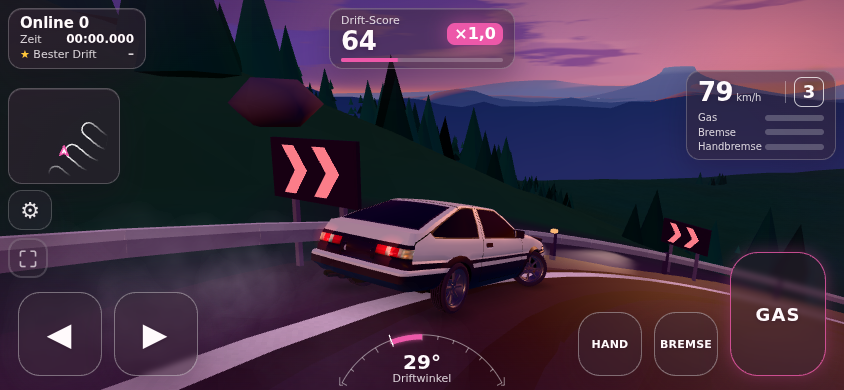
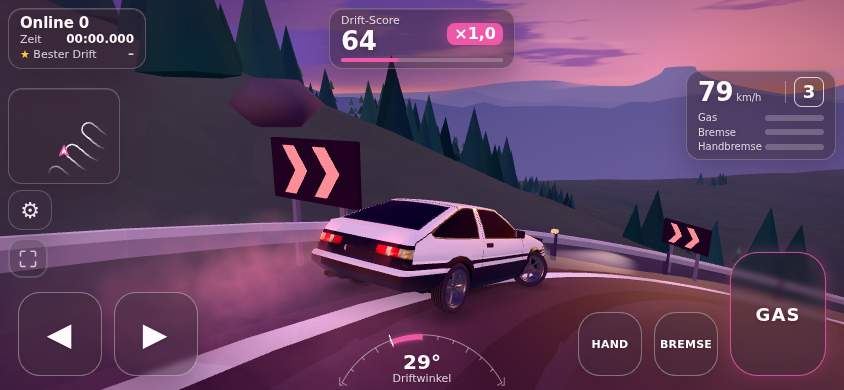
One car (the AE86) for everybody, paint names, 16-driver relay test on the touge, lost respawn test, glTF textures under the app's content policy, back button, pictures, STATE

diff --git a/src/Drift/wwwroot/app.js b/src/Drift/wwwroot/app.js
@@ -53,6 +53,7 @@ async function garagePage(me) {
   const preview = h('p', { class: 'garage-preview' });
   const swatch = (hue) => { const b = h('button', { class: 'swatch', type: 'button', role: 'radio', 'aria-label': t('garage.colourN', { n: hue / 15 + 1 }) }); b.style.setProperty('--h', hue); return b; };
 
+  state.car = 1;   // one car for now (docs/FOCUS.md): the AE86; the other four stay valid in the data but are not offered
   const carButtons = CARS.map((c, i) => {
     const bars = STATS.map((s) => h('div', { class: 'stat' }, h('span', { class: 'stat-name', text: t('garage.stat.' + s) }),
       h('span', { class: 'bars', 'aria-hidden': 'true' }, [1, 2, 3, 4, 5].map((n) => h('i', { class: n <= c[s] ? 'on' : '' })))));
@@ -115,7 +116,7 @@ async function garagePage(me) {
     title: t('garage.title'), sub: t('garage.sub'),
     actions: [h('a', { class: 'btn primary', href: '/play/' }, icon('bolt'), t('garage.play'))],
     body: h('div', { class: 'page stack' },
-      h('section', { class: 'card stack' }, h('h2', { class: 'card-title', text: t('garage.car') }), h('div', { class: 'cars', role: 'radiogroup', 'aria-label': t('garage.car') }, carButtons)),
+      h('section', { class: 'card stack' }, h('h2', { class: 'card-title', text: t('garage.car') }), h('div', { class: 'cars', role: 'radiogroup', 'aria-label': t('garage.car') }, carButtons.filter((_, i) => i === 1))),
       h('section', { class: 'card stack' }, h('h2', { class: 'card-title', text: t('garage.colour') }), h('div', { class: 'swatches', role: 'radiogroup', 'aria-label': t('garage.colour') }, swatches)),
       h('section', { class: 'card stack' }, h('h2', { class: 'card-title', text: t('tune.title') }), h('p', { class: 'muted', text: t('tune.intro') }), points, tuneBox, h('div', { class: 'cluster' }, tuneReset)),
       h('section', { class: 'card stack' }, h('h2', { class: 'card-title', text: t('garage.glow') }), h('p', { class: 'muted', text: t('garage.glowHint') }), glowOff, h('div', { class: 'swatches', role: 'radiogroup', 'aria-label': t('garage.glow') }, glowSwatches)),

diff --git a/game/view/carmodel.js b/game/view/carmodel.js
@@ -145,7 +145,9 @@ export async function loadCarModel(name, { tier, materials }) {
   const [{ GLTFLoader }, { loadCarGlb, modelUrls }] = await Promise.all([import('../../vendor/three/addons/loaders/GLTFLoader.js'), import('./carglb.js')]);
   const loader = new GLTFLoader();
   for (const url of modelUrls(new URL('../assets/cars/', import.meta.url), name, tier)) {
-    const car = await loadCarGlb(url, materials, (u) => loader.loadAsync(u));
+    // the app's content policy lets a page fetch only its own address (connect-src 'self'), and the glTF loader's image bitmaps are fetched from blob: addresses: so the loader is told that
+    // image bitmaps do not exist and reads the textures through ordinary images (img-src allows blob:)
+    const car = await loadCarGlb(url, materials, async (u) => { const cib = globalThis.createImageBitmap; globalThis.createImageBitmap = undefined; try { return await loader.loadAsync(u); } finally { globalThis.createImageBitmap = cib; } });
     if (car) return { ...car, url };
   }
   return null;

diff --git a/game/main.js b/game/main.js
@@ -59,7 +59,7 @@ const [cars, mapList] = await Promise.all([
   fetch('data/maps.json').then((r) => r.json()).then((j) => j.maps),
 ]);
 const online = document.documentElement.dataset.mode === 'online';
-const carIndex = params.has('car') ? Math.min(cars.length - 1, +params.get('car') || 0) : online ? Math.floor(Math.random() * cars.length) : 0;
+const carIndex = params.has('car') ? Math.min(cars.length - 1, +params.get('car') || 0) : online ? Math.floor(Math.random() * cars.length) : 1;   // (one car for now, docs/FOCUS.md: the AE86 is car 1; the signed-in page is told 1 by the server)
 // ?tune=steer,balance,power,handbrake (each -3..3, at most 10 points together): the garage's tuning of this car, seen by this page only
 const tuneParts = (params.get('tune') ?? '').split(',').map(Number);
 const tune = Object.fromEntries(TUNE_NAMES.map((k, i) => [k, tuneParts[i] ?? 0]));

diff --git a/game/game.css b/game/game.css
@@ -72,3 +72,4 @@ body.touch #fs { top: 238px; }
 #summary b { font-weight: 700; }
 body.touch #summary { font-size: 13px; min-width: 200px; padding: 8px 16px; top: 40%; }
 body.touch #summary h3 { font-size: 16px; }
+#back { top: 240px !important; bottom: auto !important; width: 40px; height: 40px; font-size: 18px; }

diff --git a/tests/Drift.Tests/GarageTests.cs b/tests/Drift.Tests/GarageTests.cs
@@ -22,7 +22,7 @@ public class GarageTests
     {
         var parts = name.Split(' ');
         Assert.Equal(2, parts.Length);
-        Assert.Equal(Drift.Relay.WorldRelay.Colours[colour / 2 % Drift.Relay.WorldRelay.Colours.Length], parts[0]);
+        Assert.Equal(colour >= 24 ? Drift.Relay.WorldRelay.PaintWords[colour - 24] : Drift.Relay.WorldRelay.Colours[colour / 2 % Drift.Relay.WorldRelay.Colours.Length], parts[0]);
         Assert.Contains(parts[1], Drift.Relay.WorldRelay.Animals);
         Assert.DoesNotContain("jul", name, StringComparison.OrdinalIgnoreCase);
     }
@@ -44,14 +44,14 @@ public class GarageTests
         var c = app.Http();
         var cookie = await app.SignedInAsync(c);
         var first = await TestApp.Json(await c.SendAsync(app.Req(HttpMethod.Get, "/api/garage", cookie)));
-        Assert.Equal(0, first.GetProperty("car").GetInt32());
+        Assert.Equal(GarageStore.OnlyCar, first.GetProperty("car").GetInt32());   // one car for now: the AE86
         AssertNeutral(first.GetProperty("name").GetString()!, first.GetProperty("colour").GetInt32()); // no nickname: a neutral name, never the account name "jul"
         Assert.Equal(5, first.GetProperty("cars").GetArrayLength());
 
         var put = await c.SendAsync(app.Req(HttpMethod.Put, "/api/garage", cookie, new { car = 3, colour = 17, nick = "  Sky Fox " }));
         Assert.Equal(HttpStatusCode.OK, put.StatusCode);
         var again = await TestApp.Json(await c.SendAsync(app.Req(HttpMethod.Get, "/api/garage", cookie)));
-        Assert.Equal(3, again.GetProperty("car").GetInt32());
+        Assert.Equal(GarageStore.OnlyCar, again.GetProperty("car").GetInt32());   // the car 3 is kept but the AE86 is the one in use
         Assert.Equal(17, again.GetProperty("colour").GetInt32());
         Assert.Equal("Sky Fox", again.GetProperty("nick").GetString());
         Assert.Equal("Sky Fox", again.GetProperty("name").GetString());
@@ -91,7 +91,8 @@ public class GarageTests
         await app.SignedInAsync(app.Http()); // runs the migrations
         var store = new GarageStore(db.Data);
         var a = Guid.NewGuid();
-        await using (var cmd = db.Data.CreateCommand("insert into users (id, name, password_hash, totp_secret, roles) values ($1, 'a', 'x', 'x', '{member}'), ($2, 'b', 'x', 'x', '{member}')") ) { cmd.Parameters.AddWithValue(a); var b = Guid.NewGuid(); cmd.Parameters.AddWithValue(b); await cmd.ExecuteNonQueryAsync(); await store.SaveAsync(a, new Profile(4, 5, "Alpha")); Assert.Equal(new Profile(4, 5, "Alpha"), await store.GetAsync(a)); Assert.Null((await store.GetAsync(b)).Nick); Assert.Equal(0, (await store.GetAsync(b)).Car); }
+        await using (var cmd = db.Data.CreateCommand("insert into users (id, name, password_hash, totp_secret, roles) values ($1, 'a', 'x', 'x', '{member}'), ($2, 'b', 'x', 'x', '{member}')") ) { cmd.Parameters.AddWithValue(a); var b = Guid.NewGuid(); cmd.Parameters.AddWithValue(b); await cmd.ExecuteNonQueryAsync(); await store.SaveAsync(a, new Profile(4, 5, "Alpha")); Assert.Equal(new Profile(GarageStore.OnlyCar, 5, "Alpha"), await store.GetAsync(a)); Assert.Null((await store.GetAsync(b)).Nick); Assert.Equal(GarageStore.OnlyCar, (await store.GetAsync(b)).Car);   // (the saved car 4 stays in the table; the one car in use is the AE86)
+            await using var raw = db.Data.CreateCommand("select car_id from drift_profile where user_id = $1"); raw.Parameters.AddWithValue(a); Assert.Equal((short)4, (short)(await raw.ExecuteScalarAsync())!); }
     }
 
     [Fact]

diff --git a/tests/Drift.Tests/RelayTests.cs b/tests/Drift.Tests/RelayTests.cs
@@ -162,6 +162,50 @@ public class RelayTests
     }
 
     [Fact]
+    public void A_lost_respawn_costs_a_pose_and_a_fix_not_the_connection_and_a_later_respawn_works()
+    {
+        var (r, t) = Make(new RelayOptions { HalfX = 400, HalfZ = 400 });
+        r.SetSpawn(0, 0, 60);
+        var (a, pa) = Join(r);
+        r.OnMessage(a, Pose(150, 0));
+        t.Advance(0.1);
+        r.OnMessage(a, Pose(0, 0));                              // the respawn frame never came: this pose is a jump and is refused
+        Assert.Equal(1, pa.Count(Wire.Fix));
+        var fix = pa.Last(Wire.Fix)!;                            // the page takes the fix and goes on from there: accepted, nobody is thrown out
+        t.Advance(0.07);
+        r.OnMessage(a, Pose(150.5, 0));
+        Assert.Equal(1, pa.Count(Wire.Fix)); Assert.Null(pa.Closed);
+        t.Advance(4);
+        r.OnMessage(a, [Wire.Respawn, 3]);
+        r.OnMessage(a, Pose(5, 5));
+        Assert.Equal(1, pa.Count(Wire.Fix)); Assert.Null(pa.Closed);
+        Assert.NotNull(fix);
+    }
+
+    [Fact]
+    public void Sixteen_drivers_on_the_touge_all_pass_the_relays_checks_with_its_walls_and_every_one_is_seen_by_the_near_ones()
+    {
+        var json = File.ReadAllText(Path.Combine(Repo.Root, "game", "data", "maps", "06-touge.json"));
+        var track = Drift.Race.RaceTrack.FromJson(json);
+        var t = new FakeTime();
+        var r = new WorldRelay(t, new RelayOptions { MaxPerAddress = 99, JoinsPerMinutePerAddress = 999, FramesPerSecondPerAddress = 99999, MaxPerWorld = 64, HalfX = track.HalfX, HalfZ = track.HalfZ, InterestRadius = 70, InterestHysteresis = 10, FarEvery = 4 }, new Random(1));
+        r.SetGeometry(track.Segments, track.Obstacles);
+        using var doc = System.Text.Json.JsonDocument.Parse(json);
+        var centre = doc.RootElement.GetProperty("centre").EnumerateArray().Select(p => (X: p[0].GetDouble(), Z: p[1].GetDouble())).ToList();
+        var path = RaceTrackTests.Sample(centre, 20.0 / 15);
+        var bots = Enumerable.Range(0, 16).Select(i => Join(r, "addr" + i)).ToList();
+        for (var step = 0; step < 200; step++)
+        {
+            for (var i = 0; i < bots.Count; i++) { var p = path[(i * 6 + step) % path.Count]; r.OnMessage(bots[i].s, Pose(p.X, p.Z, p.H, 20)); }   // six steps apart: the cars follow each other 8 m apart in a column
+            t.Advance(1.0 / 15); r.Tick();
+        }
+        Assert.Equal(0, r.Stats.Rejected);
+        Assert.All(bots, b => Assert.Null(b.p.Closed));
+        Assert.All(bots, b => Assert.True(b.p.Count(Wire.Snapshot) > 100, "every driver gets snapshots"));
+        Assert.True(r.Stats.NearEntries > 0);
+    }
+
+    [Fact]
     public void Eight_violations_in_ten_seconds_end_the_connection()
     {
         var (r, t) = Make();

diff --git a/src/Drift/Garage/GarageStore.cs b/src/Drift/Garage/GarageStore.cs
@@ -11,11 +11,14 @@ public sealed class GarageStore(NpgsqlDataSource db)
 {
     public static readonly string[] CarNames = ["Dart", "AE86", "Bruno", "Marlin", "Ox"];
 
+    /// <summary>The one car everybody drives for now (docs/FOCUS.md: exactly one car): the AE86. What a person saved earlier stays in the database and stays valid, but is not used.</summary>
+    public const int OnlyCar = 1;
+
     /// <summary>The profile, or the defaults of a person who has never saved one: the first car, a colour that follows the person's id.</summary>
     public async Task<Profile> GetAsync(Guid userId, CancellationToken ct = default) =>
         await db.FirstAsync("select car_id, colour, nick, glow from drift_profile where user_id = $1",
-            r => new Profile(r.GetInt16(0), r.GetInt16(1), r.TextOrNull(2), r.IsDBNull(3) ? null : r.GetInt16(3)), ct, userId)
-        ?? new Profile(0, DefaultColour(userId), null);
+            r => new Profile(OnlyCar, r.GetInt16(1), r.TextOrNull(2), r.IsDBNull(3) ? null : r.GetInt16(3)), ct, userId)
+        ?? new Profile(OnlyCar, DefaultColour(userId), null);
 
     public async Task<Profile> SaveAsync(Guid userId, Profile p, CancellationToken ct = default)
     {
@@ -36,7 +39,7 @@ public sealed class GarageStore(NpgsqlDataSource db)
     public static string NeutralName(Guid userId, int colour)
     {
         var h = userId.ToByteArray().Aggregate(17, (a, b) => unchecked(a * 31 + b));
-        return Drift.Relay.WorldRelay.Colours[colour / 2 % Drift.Relay.WorldRelay.Colours.Length] + " " + Drift.Relay.WorldRelay.Animals[(h & 0x7fffffff) % Drift.Relay.WorldRelay.Animals.Length];
+        return (colour >= 24 ? Drift.Relay.WorldRelay.PaintWords[Math.Min(2, colour - 24)] : Drift.Relay.WorldRelay.Colours[colour / 2 % Drift.Relay.WorldRelay.Colours.Length]) + " " + Drift.Relay.WorldRelay.Animals[(h & 0x7fffffff) % Drift.Relay.WorldRelay.Animals.Length];
     }
 
     /// <summary>New drivers are white (the paint of the first mockup car); 24 is white.</summary>

diff --git a/tests/Drift.Tests/GuestTests.cs b/tests/Drift.Tests/GuestTests.cs
@@ -62,7 +62,7 @@ public class GuestTests
         Assert.Contains("httponly", setCookie); Assert.Contains("samesite=strict", setCookie);
         var me = await TestApp.Json(await c.SendAsync(app.Req(HttpMethod.Get, "/api/guest/me", cookie)));
         Assert.Equal("Kiwi 7", me.GetProperty("name").GetString());
-        Assert.Equal(0, me.GetProperty("car").GetInt32());
+        Assert.Equal(1, me.GetProperty("car").GetInt32());   // everybody drives the AE86 for now
         Assert.InRange(me.GetProperty("colour").GetInt32(), 0, 23);
         // a guest gets nothing else
         foreach (var url in new[] { "/api/garage", "/api/guest-links", "/api/people", "/api/times", "/api/play/ws", "/api/settings" })
@@ -194,7 +194,7 @@ public class GuestTests
         using var ws = await Connect(app, guest);
         var roster = (await Frame(ws, Wire.Roster))!;
         Assert.Equal("Kiwi 7", System.Text.Encoding.UTF8.GetString(roster, 6, roster[5]));
-        Assert.Equal(0, roster[3]);                                                                     // the first car
+        Assert.Equal(1, roster[3]);                                                                     // the AE86 (the one car for now)
         var ended = await TestApp.Json(await c.SendAsync(app.Req(HttpMethod.Post, "/api/guest-links/end-all", admin)));
         Assert.Equal(1, ended.GetProperty("ended").GetInt32());
         var bye = await Frame(ws, Wire.Bye);                                                            // within a moment, not after the 30 s check

diff --git a/server/Relay/WorldRelay.cs b/server/Relay/WorldRelay.cs
@@ -98,6 +98,8 @@ public sealed class RelayStats
 
 public sealed class WorldRelay(TimeProvider time, RelayOptions? options = null, Random? random = null)
 {
+    /// <summary>The colour word of the paints 24 to 26 (white, black, silver).</summary>
+    public static readonly string[] PaintWords = ["White", "Black", "Silver"];
     public static readonly string[] Colours = ["Red", "Orange", "Amber", "Lime", "Green", "Mint", "Teal", "Sky", "Blue", "Indigo", "Violet", "Pink"];
     public static readonly string[] Animals = ["Otter", "Fox", "Heron", "Badger", "Lynx", "Gecko", "Falcon", "Wombat", "Marmot", "Ibis", "Newt", "Panda", "Moose", "Stoat", "Puffin", "Koala"];
 
@@ -445,7 +447,7 @@ public sealed class WorldRelay(TimeProvider time, RelayOptions? options = null, 
     /// <summary>The colour word follows the car's hue (24 hues of 15 degrees, 12 words), the animal is free.</summary>
     string PickName(List<Session> members, byte hue)
     {
-        var colour = Colours[hue / 2 % Colours.Length];
+        var colour = hue >= 24 ? PaintWords[Math.Min(2, hue - 24)] : Colours[hue / 2 % Colours.Length];
         for (int tries = 0; tries < 200; tries++)
         {
             var n = colour + " " + Animals[rnd.Next(Animals.Length)];

diff --git a/tests/Drift.Tests/PlayTests.cs b/tests/Drift.Tests/PlayTests.cs
@@ -59,7 +59,7 @@ public class PlayTests
         Assert.Equal(19, welcome![3]);                      // the hue index
         var roster = (await Frame(ws, Wire.Roster))!;
         Assert.Equal(1, roster[1]);
-        Assert.Equal(2, roster[3]);                         // car
+        Assert.Equal(1, roster[3]);                         // car: everybody drives the AE86 for now (the garage's saved car 2 is kept in the data but not used)
         Assert.Equal(19, roster[4]);                        // hue
         Assert.Equal("Bolt", System.Text.Encoding.UTF8.GetString(roster, 6, roster[5]));
     }
@@ -74,7 +74,7 @@ public class PlayTests
         var roster = (await Frame(ws, Wire.Roster))!;
         var shown = System.Text.Encoding.UTF8.GetString(roster, 6, roster[5]);
         Assert.NotEqual("mia", shown);
-        Assert.Contains(shown.Split(' ')[0], Drift.Relay.WorldRelay.Colours);
+        Assert.Contains(shown.Split(' ')[0], Drift.Relay.WorldRelay.Colours.Concat(Drift.Relay.WorldRelay.PaintWords));   // a colour word, or white, black, silver for the paints 24 to 26
         Assert.Contains(shown.Split(' ')[1], Drift.Relay.WorldRelay.Animals);
     }
 

diff --git a/src/Drift/Play/PlayEndpoint.cs b/src/Drift/Play/PlayEndpoint.cs
@@ -47,7 +47,7 @@ public static class PlayEndpoint
             var g = ctx.Guest();
             var cookie = ctx.Request.Cookies[GuestEndpoints.CookieName(ctx.Request)];
             var guests = sp.GetRequiredService<GuestService>();
-            return new Player(g.Id, g.Name, g.Car, g.Colour, true, async () => cookie is not null && await guests.ValidateAsync(cookie, CancellationToken.None) is not null);
+            return new Player(g.Id, g.Name, Drift.Garage.GarageStore.OnlyCar, g.Colour, true, async () => cookie is not null && await guests.ValidateAsync(cookie, CancellationToken.None) is not null);
         }
         if (ctx.IsGameAccount())
         {

diff --git a/src/Drift/Guests/GuestEndpoints.cs b/src/Drift/Guests/GuestEndpoints.cs
@@ -56,7 +56,7 @@ public static class GuestEndpoints
             return Results.Ok(new { name = m.Guest.Name, expires = m.Guest.Expires });
         });
 
-        app.MapGet("/api/guest/me", (HttpContext ctx) => { var g = ctx.Guest(); return Results.Ok(new { name = g.Name, car = g.Car, colour = g.Colour, expires = g.Expires }); });
+        app.MapGet("/api/guest/me", (HttpContext ctx) => { var g = ctx.Guest(); return Results.Ok(new { name = g.Name, car = Drift.Garage.GarageStore.OnlyCar, colour = g.Colour, expires = g.Expires }); });
 
         app.MapPost("/api/guest/leave", async (HttpContext ctx, GuestService guests, PersonSockets sockets) =>
         {
